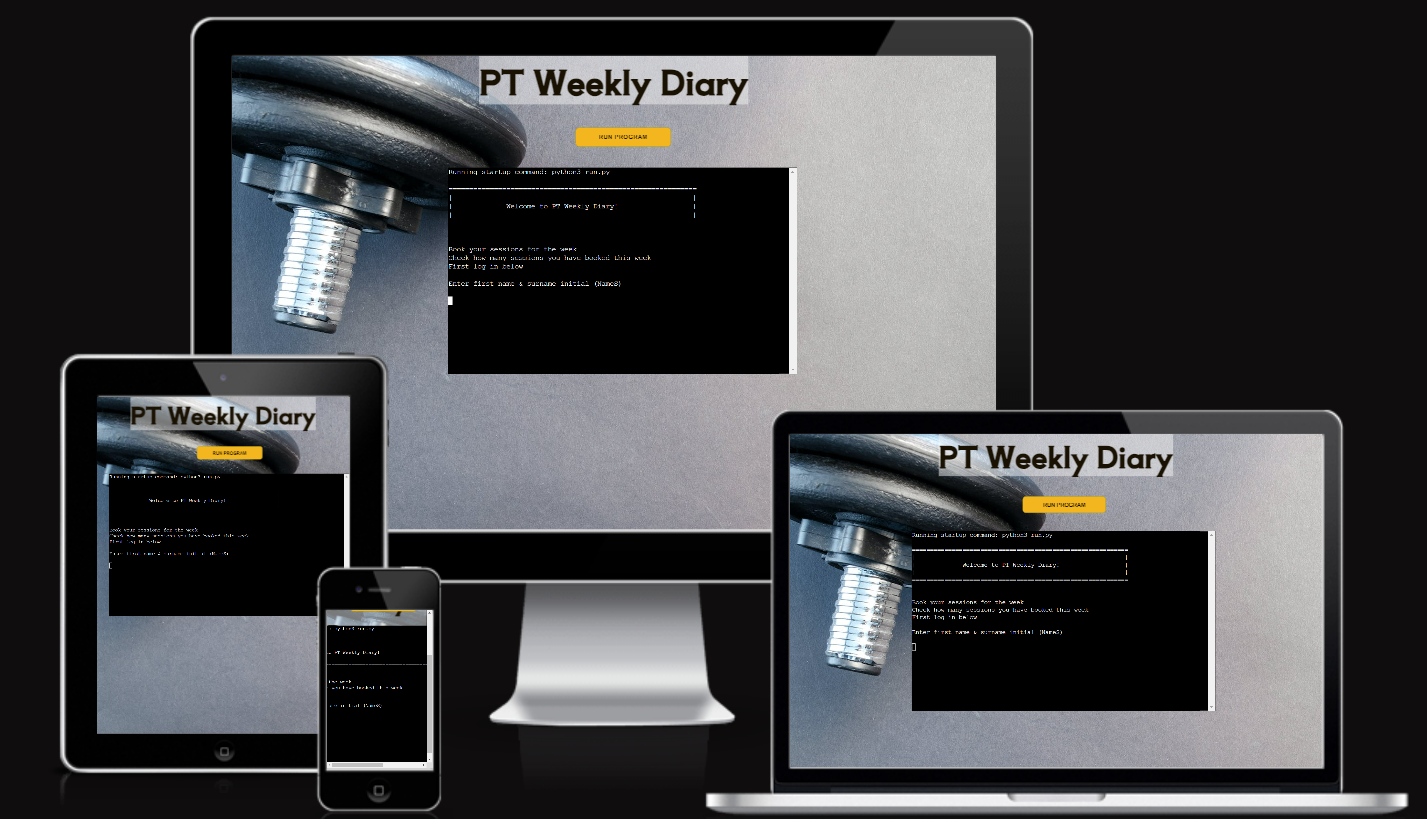
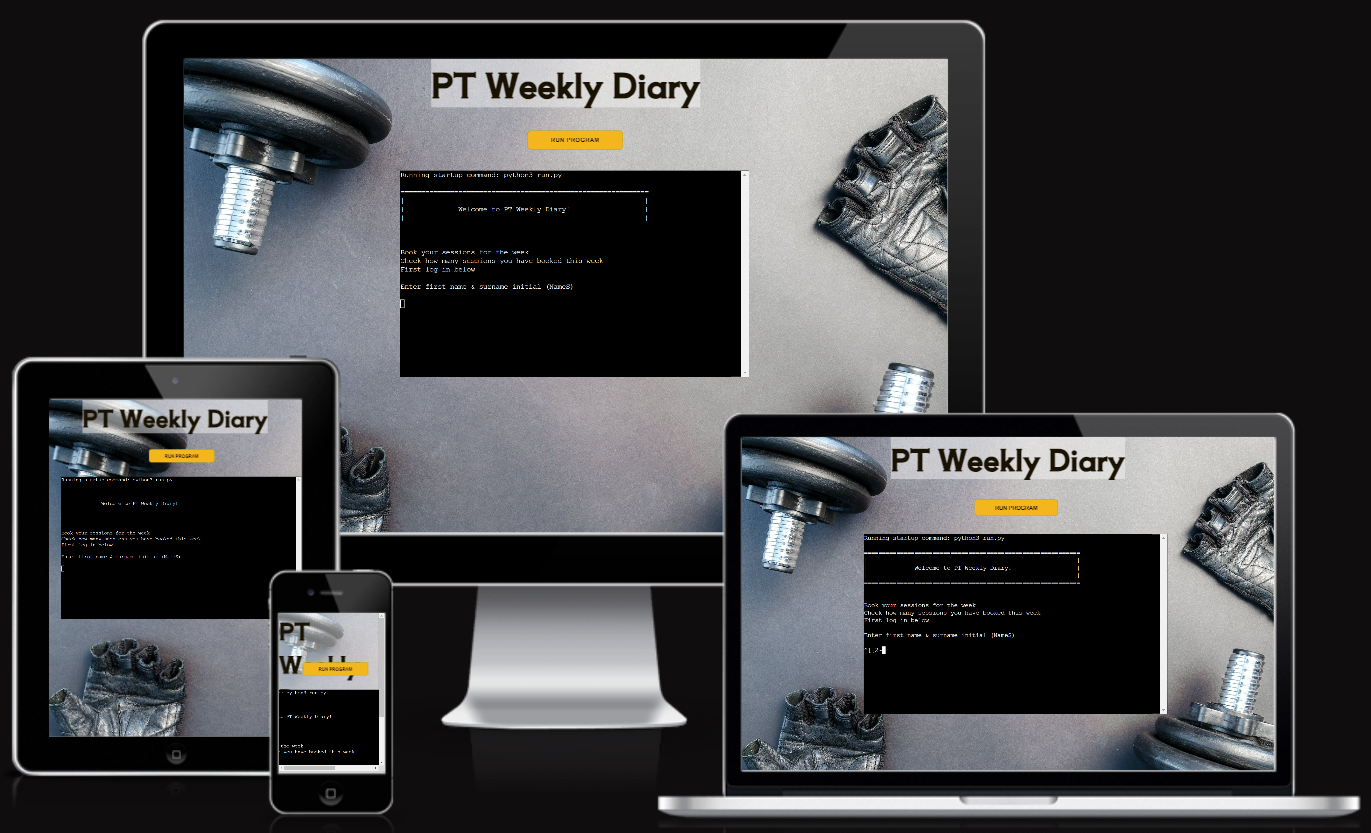
docs: amend readme.md file to include testing and results, and screenshots to images folder

diff --git a/run.py b/run.py
@@ -14,7 +14,6 @@ GSPREAD_CLIENT = gspread.authorize(SCOPED_CREDS)
 SHEET = GSPREAD_CLIENT.open('pt_ schedule')
 
 user = []  # Array to hold username
-target_per_week = []  # Array to hold user's target number of training per week
 
 # Days to book
 days = {
@@ -138,7 +137,7 @@ def check_client(username):
 
 def make_booking(username):
     """
-    Provides booking options
+    Provides options for user (make booking, check booked sessions, exit)
     """
     while True:
         new_booking = input("Make a new booking? (Y) or (N)\n").capitalize()
@@ -157,7 +156,7 @@ def make_booking(username):
 
 def choose_day():
     """
-    User to select day
+    User to select day to book
     """
     print(days)
     while True:
@@ -209,7 +208,7 @@ def check_worksheet():
 
 def update_bookings(day, time, col_day):
     """
-    Update spreadsheet with user booking
+    Update spreadsheet with user booking (day and time)
     """
     b_worksheet = SHEET.worksheet('bookings')
     grid_time = grid_ref_time[time]
@@ -219,7 +218,7 @@ def update_bookings(day, time, col_day):
 
 def num_booking(username):
     """
-    Check number of bookings for user
+    Check spreadsheet for number of bookings in the week for user
     """
     while True:
         num_of_bookings = booking_worksheet.findall(username)
@@ -243,7 +242,7 @@ def num_booking(username):
 
 def update_clients(data):
     """
-    Updates worksheet with the client name data provided
+    Updates worksheet with the client name provided for new users
     """
     create_user = SHEET.worksheet("clients")
     create_user.append_row(data)
@@ -282,13 +281,15 @@ def main():
     num_booking(username)
 
 
+# Greeting and instruction on page load
+
+
 print("============================================================")
 print("|                                                          |")
 print("|             Welcome to PT Weekly Diary!                  |")
 print("|                                                          |")
 print("============================================================")
 print("\n")
-
 print("Book your sessions for the week")
 print("Check how many sessions you have booked this week")
 print("First log in below\n")

diff --git a/README.md b/README.md
@@ -3,9 +3,14 @@
 
 This is a terminal based app for a fictional PT business. The app will allow users to make a booking for that week. Data for the bookings and current clients are held on an external Google Worksheet. 
 
-Access the site here: <a href="https://pt-schedule.herokuapp.com/" target="_blank"></a>
+Access the site here: [PT Weekly Diary](https://pt-schedule.herokuapp.com/)
 
 ![screenshot of a screen mockup](assets/images/screen-mocks.png)
+
+## **How to use**
+Users are provided with set options from app startup. First, the user must enter a username in the stated format, which is compared to client list on an external sheet. The user has a choice to make a new booking or check pre-existing bookings for the week. If new bookings is selected, the user is prompted to select a day, followed by a time from the printed available timeslots. The external sheet is then updated with the username and booking time/date chosen.
+
+---
 
 ## **Goals/Expectations**
 1. Provide clear insrtuctions to make and check bookings
@@ -21,15 +26,17 @@ Access the site here: <a href="https://pt-schedule.herokuapp.com/" target="_blan
 ---
 
 ## **Design**
-The website uses a colour pallette generated by [Coolors](ref 6). This gives a simplistic yet clean appearence to the app. The app content has been centralised to make the terminal the focal point of the viewport.
+The website uses a colour pallette generated by [Coolors](#references). This gives a simplistic yet clean appearence to the app. The backgroung image is related to the subject matter with images surrounding the terminal. The app content has been centralised to make the terminal the focal point of the viewport.
 An external Google Worksheet containing ficticious data was created. The worksheet consists of two sheets. One contains a client list. The other contains a weekly calender, with days of the week as columns, and timeslots as rows.
 The purpose of the app is to access the data contained within the worksheet in order to update it based on user iteraction, as well as read and interpret the data following user input/requests.
 The logic for the app functions were mapped out on a logic map. You can find the logic map for the original concept here: [logic](assets/images/logic-map.png)
 
 ## Future Updates
 
-* Background image relevent to concept/business type
+* Background image to be hosted locally and visible
 * A more in depth menu function for better user interaction and experience
+* Addtional information in worksheet such as fitness goals
+* Function to manipulate new information on weeksheet
 
 ---
 
@@ -38,10 +45,12 @@ The logic for the app functions were mapped out on a logic map. You can find the
 ### **Header**
 
 The header large and central above the terminal to display app name. Basic colour of black to provide contrast to background colour and make it stand out. Slightly translucent background around header for contrast from background image Imported font called Aoboshi One used.
+![screenshot of header](assets/images/header.png)
 
 ### **Button**
 
 The button is central above the terminal in a bright colour, with black text. On hover the background and text change to more muted colours to signify user interaction.
+![screenshot of button](assets/images/button.png)
 
 ### **Terminal**
 
@@ -55,14 +64,18 @@ The site has been tested on a variety of devices and browsers to check the funct
 * Laptop on Google Chrome and Microsoft Edge browsers
 * Apple laptop on Google Chrome
 
-| Test  | Result | Fix |
-| ------------- | ------------- | ------------- |
-| Username validation. Use special characters or numbers  | Value error raised  | No fix required |
-| Client check. Use existing username to see if matched to sheet  | Name found and Welcome message printed  |
-|
-|
+| Test  | Result | As expected | Not expected/Fixes|
+| :-------------: | :-------------: | :-------------: | :-------------: |
+| Username validation. Use special characters or numbers  | Value error raised  | Yes | None |
+| New user. Enter name not on client list | Username added to external 'client' sheet | Yes | None
+| Client check. Use existing username to see if matched to sheet  | Name found and welcome message printed  | Yes | None
+| Client check. Use key other than y or n |  Value error raised | Yes | None
+| New booking. Use numeric key not on day select | Value error raised | Yes | None
+| Timeslots. Use numeric key not in available slots | Value error raised | Yes | None
+| Update booking. Select day and timeslot | Username added to correct cell on 'booking sheet' | Yes | None
+| Check booking. Use key other than y or n | Value error raised | Yes | None
 
-The deployed site was shared amongst family and friends to obtain user experience feedback. Overall the feedback was  
+The deployed site was shared amongst family and friends to obtain user experience feedback. Overall the feedback was positive. They were able to follow on app instructions to create a profile and booking successfully.
 
 ---
 ## **Bugs**
@@ -72,15 +85,13 @@ The deployed site was shared amongst family and friends to obtain user experienc
 
 ---
 ## **Validator Testing**
-* HTML - Official W3C validator used. .
+* HTML - Official W3C validator used.
 
-![screenshot of html validator report](assets/images/readme_docs/)
+![screenshot of html validator report](assets/images/html-validation.png)
 
-* CSS - Official Jigsaw validator used. No errors returned.
+* Python Linter - CI Python Linter used. No errors found
 
-![screenshot of css validator report](assets/images/readme_docs/)
-
-* JS - Official JShint linter used. No errors and 1 warning returned
+![screenshot of python linter result](assets/images/python-linter.png)
 
 * Accessibility - Lighthouse checks were conducted on the site, returning 
 
@@ -88,11 +99,19 @@ The deployed site was shared amongst family and friends to obtain user experienc
 
 ---
 ## **Technologies**
+
 * HTML - Core structure of the site
 * Javascript - Functionality and responsiveness of user initiated interactions
 * Heroku - Hosts the live site
 * Github - Stores the site code and logged versions
 * Codeanywhere - Cloud IDE used to write/design the site
+
+## **Libraries**
+
+* Gspread
+* Numpy
+* Google sheets API
+
 ---
 ## **Deployment**
 The project was deployed to Heroku. The steps below explain the process.
@@ -121,7 +140,7 @@ Use the below steps to make a Local Clone
  - Press Enter. Your local clone will be created
 
 ---
-## **References/Credit**
+## **References**
 1. [Code Institute](https://github.com/Code-Institute-Solutions/love-sandwiches-p5-sourcecode) - Template for base structure. Course requirement to use.
 2. [Visual Paradigm](https://online.visual-paradigm.com/)- Logic map editor
 3. [Pexels](https://www.pexels.com/photo/barbells-on-gray-surface-669584/) - Background image
